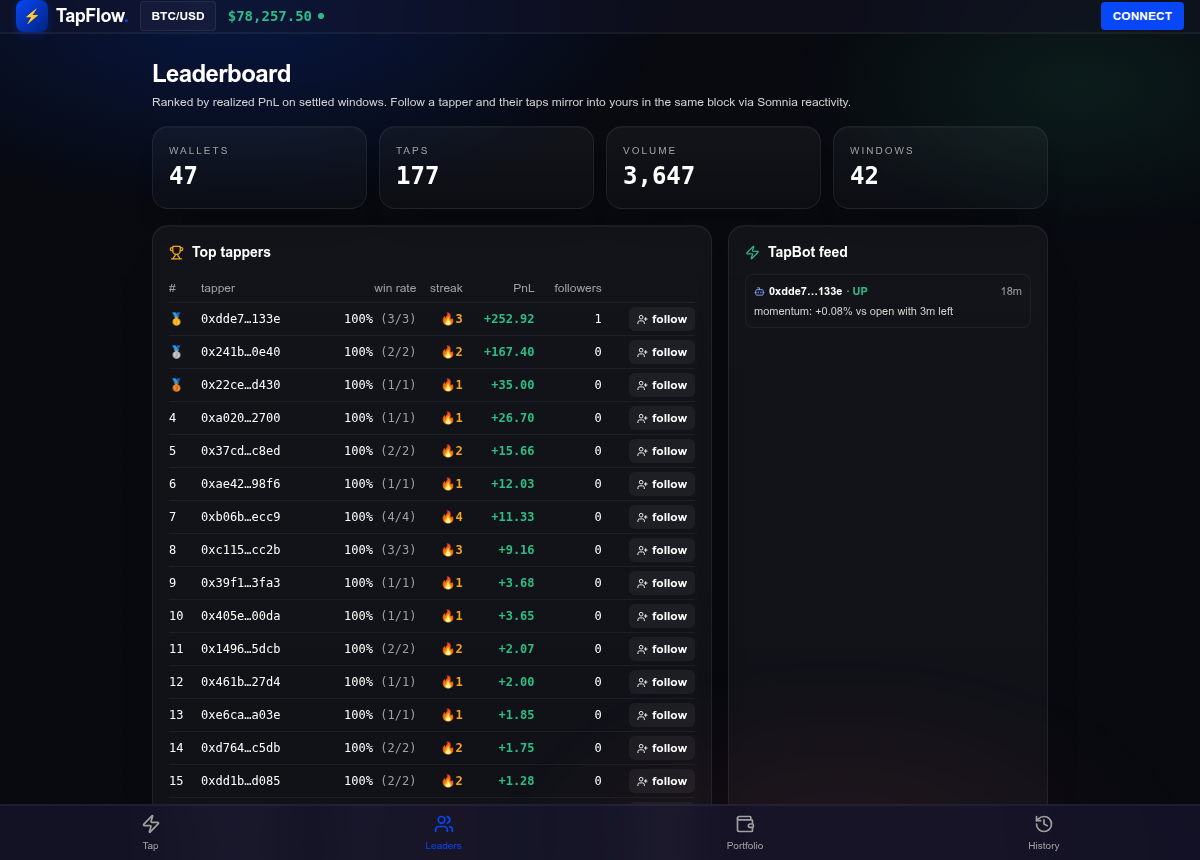
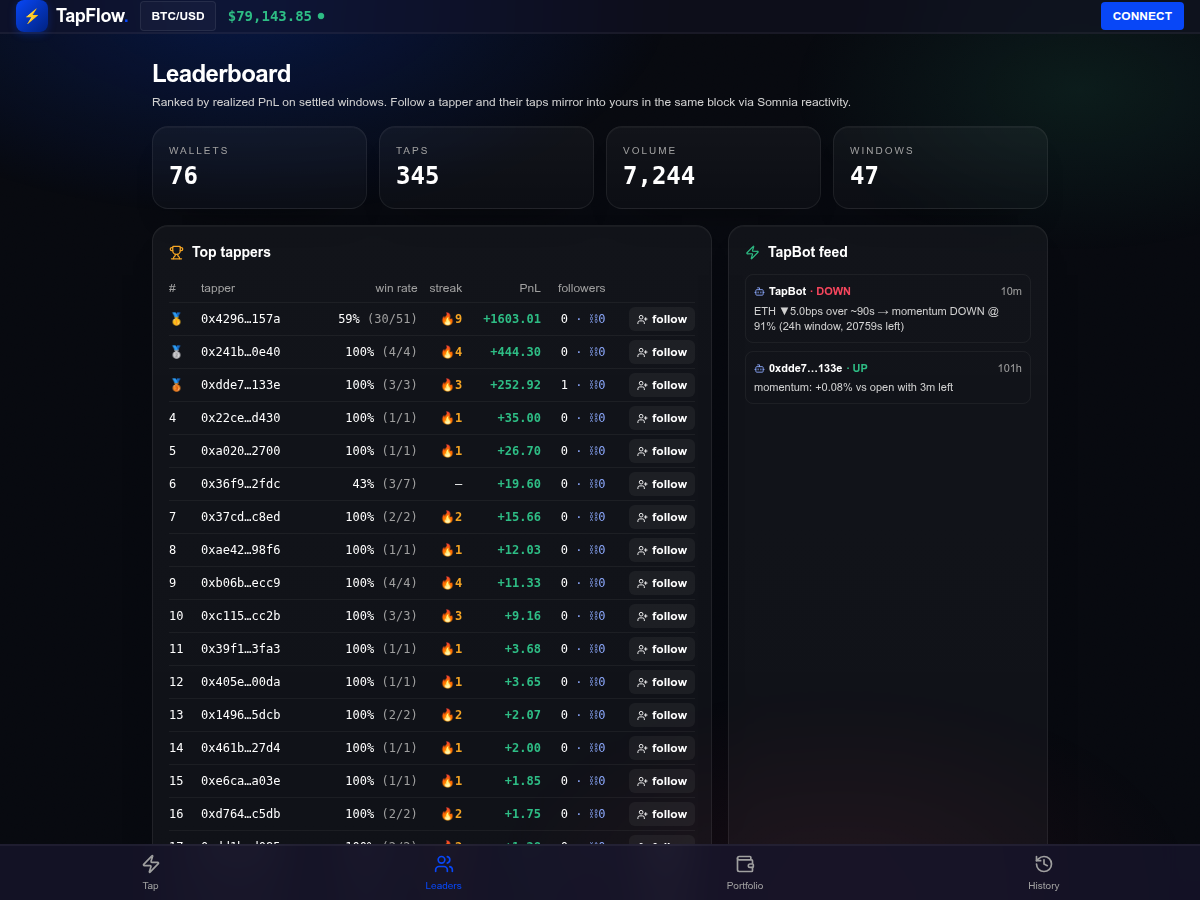
docs: production screenshots (live leaderboard w/ on-chain followers, 4h tap) + DoraHacks submission draft

diff --git a/docs/SUBMISSION.md b/docs/SUBMISSION.md
@@ -1,0 +1,31 @@
+# DoraHacks submission — copy/paste
+
+**BUIDL name:** TapFlow
+
+**Tagline:** One tap on the next five minutes. Follow the best tappers. Their taps mirror into yours in the same block.
+
+**Tags:** Somnia, dreamDEX, DeFi, Crypto-AI, Prediction Markets, Event Contracts
+
+**Track:** Open Track
+
+**Links**
+- GitHub: https://github.com/Prashant-thakur77/tapflow  ← push before submitting
+- Live app: https://tapflow-phi.vercel.app
+- Demo video: `<upload link>`
+- Same-block proof on the explorer: https://shannon-explorer.somnia.network/block/482322170
+
+**Description (one paragraph)**
+
+TapFlow turns every live DreamDEX Event Contract into a one-tap UP/DOWN call and makes the best tappers followable. Each window is a real binary market on Somnia Shannon; a tap is a real immediate-or-cancel order on the on-chain book, sized over the live order book with the venue's own tick/lot grid. After one funding popup, a capped session wallet signs every tap silently. The part nobody else shows: a leader's tap is broadcast through a Router contract, and a `SomniaEventHandler` subscribed to that event places every follower's proportional order **in the same block** through a capped MirrorVault — no keeper, no relayer. We proved it on-chain for both UP and DOWN (blocks 482312219 and 482322170), with a second reactive handler that pauses a follower at their max-loss. A fills indexer builds a PnL/streak leaderboard from chain, a momentum agent ("TapBot") taps as a public leader with a one-line rationale per order, and a Telegram bot exposes the same flow. Everything in the demo path is a real transaction; a 17-item SDK and docs feedback report is included.
+
+**What's real (judge checklist)**
+- 4 contracts deployed on Shannon, reactivity subscription 16764091 live, 11/11 Foundry tests.
+- Real taps, broadcasts, and reactive mirrors with tx hashes in the README.
+- Leaderboard: 76 wallets / 345 taps / 7.2k tUSDC indexed from chain.
+- Nothing mocked. Keys are testnet throwaways.
+
+**Somnia × DreamDEX surface used**
+`listLiveBinaryMarkets`, `getMarketOnchain`, `getBinaryOrderBook`, `getBinaryBookParams`, `quoteBinaryStakeOverBook`, `trader.placeOrder` (IOC), `trader.faucet`, `getOutcomeBalance`, `getClaimable`, `trader.redeem`, `getUserFills`/`getFills`, `fetchPrice`/`useLivePriceTicks`, React live hooks; `@somnia-chain/reactivity-contracts` `SomniaEventHandler` + `SomniaExtensions.subscribe`.
+
+**After the hackathon**
+Mainnet with the builder-fee hook as revenue; non-custodial operator session keys (`placeOrderFor`); open the agent framework so anyone can list a strategy as a leader.
